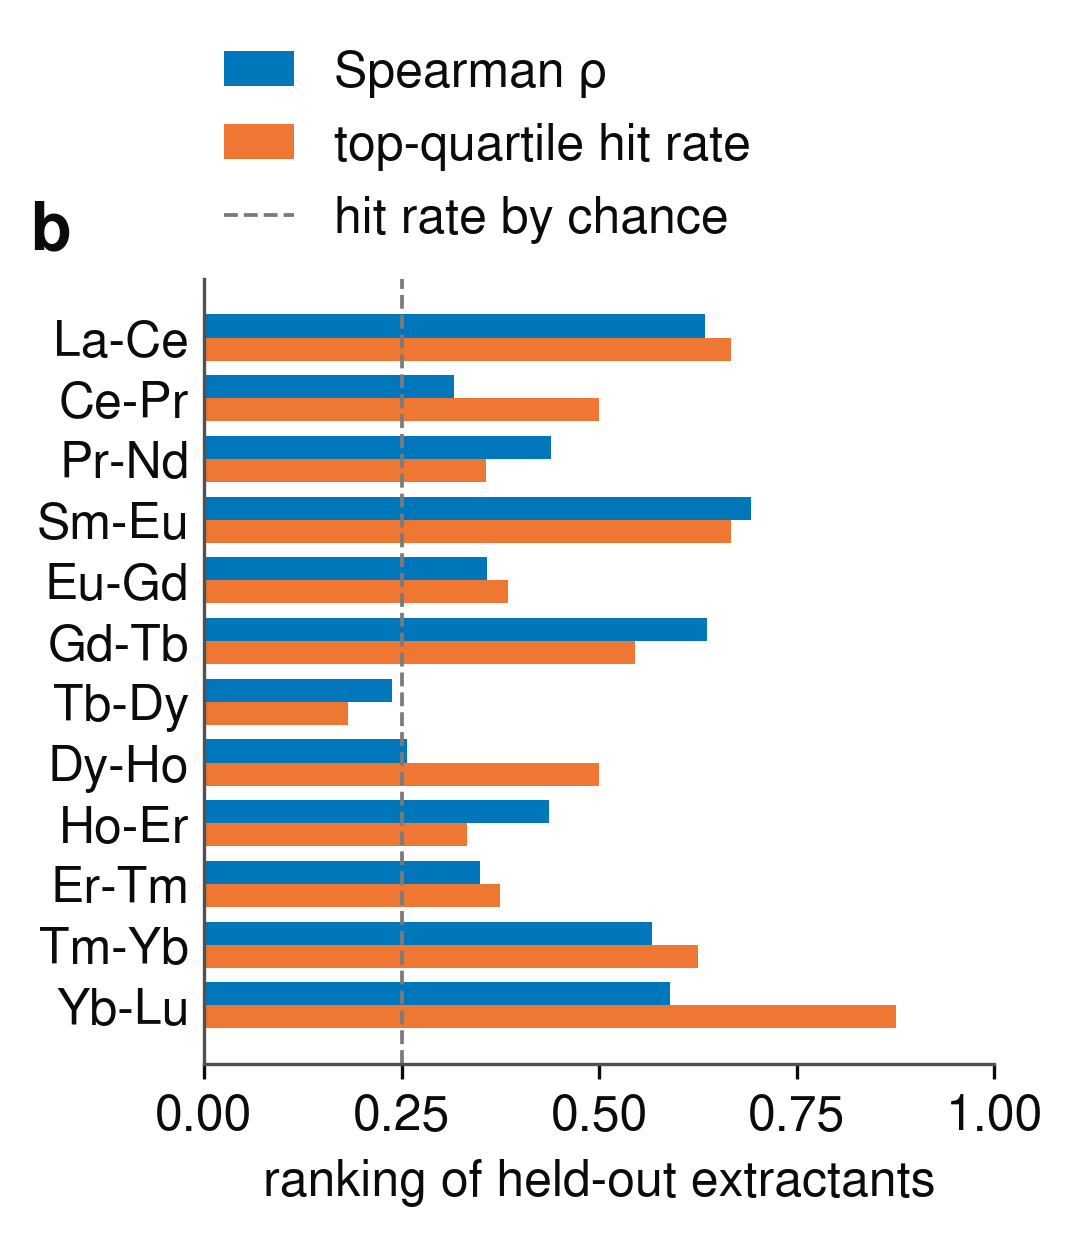
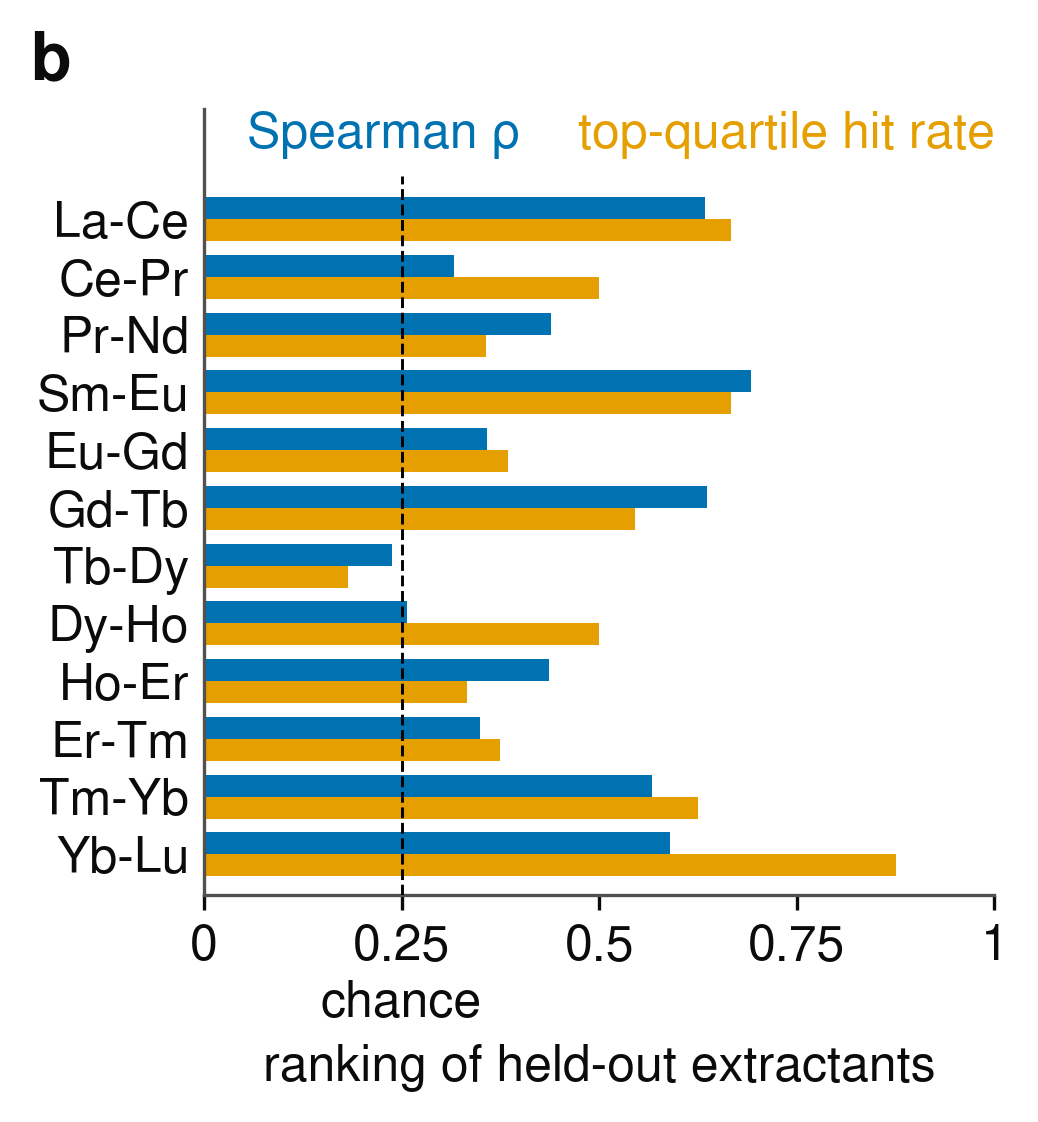
MoML figure, ranking panel: Okabe-Ito, series named as coloured text in the band above the bars, chance folded into the 0.25 tick label, chance line clipped to the bars; no legend box

diff --git a/docs/moml_2026/make_figures.py b/docs/moml_2026/make_figures.py
@@ -69,17 +69,25 @@ def fig1b(ch=None):
     pos = list(R.keys())[::-1]                      # La-Ce at the top
     rho = np.array([R[p]["spearman"] for p in pos])
     hit = np.array([R[p]["top_quartile_hit_rate"] for p in pos])
+    chance = D["ranking"]["chance_hit_rate"]
     fig, ax = fs.figure(3.4, 3.4)
     y = np.arange(len(pos)); h = 0.38
-    h1 = ax.barh(y + h / 2, rho, height=h, color=fs.COLOR["model"], label="Spearman ρ")
-    h2 = ax.barh(y - h / 2, hit, height=h, color=fs.COLOR["hit"], label="top-quartile hit rate")
-    h3 = ax.axvline(D["ranking"]["chance_hit_rate"], ls="--", lw=0.9, color=fs.NEUTRAL,
-                    label="hit rate by chance")
+    ax.barh(y + h / 2, rho, height=h, color=fs.COLOR["model"])
+    ax.barh(y - h / 2, hit, height=h, color=fs.COLOR["hit"])
+    ax.vlines(chance, -0.7, len(pos) - 1 + 0.75, ls="--", lw=0.7, color=fs.OI["black"], zorder=3)
+    # names written beside the shortest row's bars, where the axes are empty
+    top = len(pos) - 1
+    # series names as coloured text in the empty band above the bars (one line,
+    # right-aligned); the chance level is named in its tick label
+    top = len(pos) - 1
+    ax.text(1.0, top + 1.05, "top-quartile hit rate", ha="right", va="bottom", color=fs.COLOR["hit"])
+    ax.text(0.40, top + 1.05, "Spearman ρ", ha="right", va="bottom", color=fs.COLOR["model"])
     ax.set_yticks(y); ax.set_yticklabels(pos)
-    ax.set_xlim(0, 1.0); ax.set_xticks([0, 0.25, 0.5, 0.75, 1.0])
+    ax.set_ylim(-0.7, top + 1.9)
+    ax.set_xlim(0, 1.0); ax.set_xticks([0, chance, 0.5, 0.75, 1.0])
+    ax.set_xticklabels(["0", f"{chance:.2f}\nchance", "0.5", "0.75", "1"])
     ax.set_xlabel("ranking of held-out extractants")
     ax.tick_params(axis="y", length=0)
-    fs.legend_above(ax, [h1, h2, h3], [h.get_label() for h in (h1, h2, h3)], ncol=1)
     letter(ax, ch)
     fs.finish(fig, "fig1b_ranking")
 
